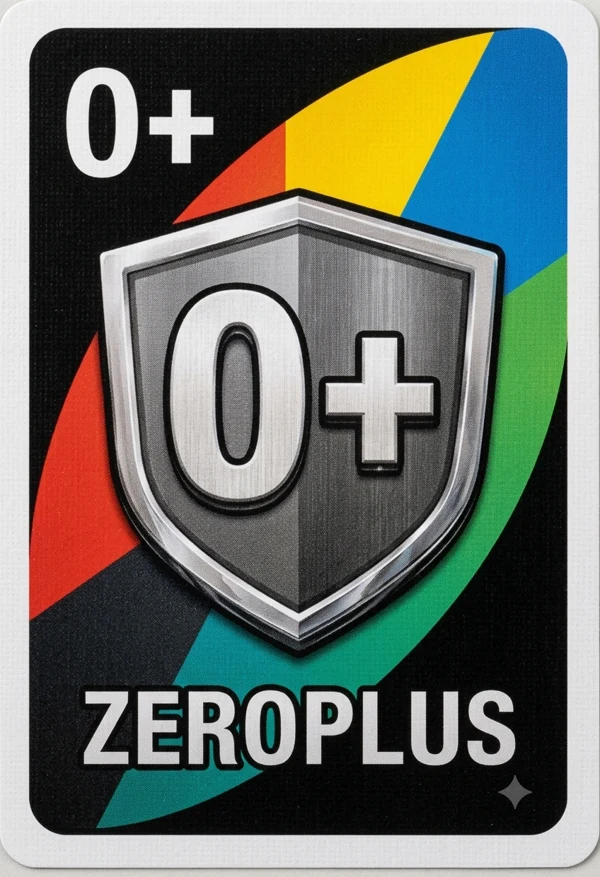
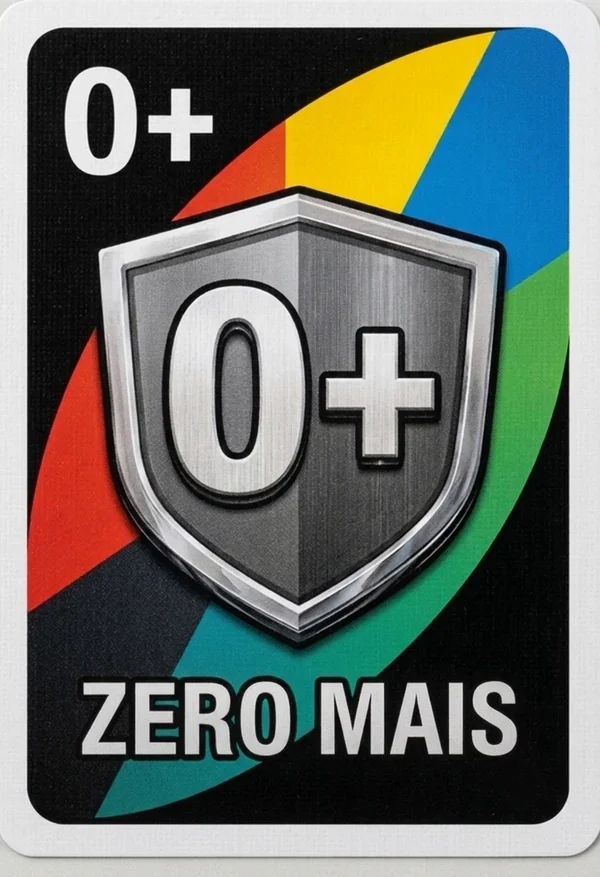
Cartas especiais com arte em português (#45)
* feat(web): cartas especiais com arte em português

Novas artes de Coringa, Gira Mão, Zero Mais e +2 Para Todos (agora .webp,
sem o .svg antigo), textos alternativos e descrição do app em PT-BR.

* docs: CHANGELOG das cartas em português

* docs: formata a tabela do GDD

---------

diff --git a/apps/web/src/components/cardVisuals.ts b/apps/web/src/components/cardVisuals.ts
@@ -8,7 +8,7 @@ const SPECIAL_ASSETS: Partial<Record<string, string>> = {
   TROCA_MAO: '/assets/cards/kabemjunto/troca-mao.webp',
   GIRA_MAO: '/assets/cards/kabemjunto/gira-mao.webp',
   CORINGA_SIMPLES: '/assets/cards/kabemjunto/coringa.webp',
-  MAIS_DOIS_TODOS: '/assets/cards/kabemjunto/mais-dois-todos.svg',
+  MAIS_DOIS_TODOS: '/assets/cards/kabemjunto/mais-dois-todos.webp',
 };
 
 export type CardVisualTemplate = 'numeric' | 'acao-colorida' | 'neutra-especial';
@@ -19,7 +19,7 @@ export type CardVisual =
 export function getCardVisual(carta: Carta): CardVisual {
   const acao = carta.acao;
 
-  // Cartas com arte premium (5 neutras especiais)
+  // Cartas com arte premium (6 neutras especiais)
   if (acao !== undefined && acao in SPECIAL_ASSETS) {
     return { kind: 'asset', src: SPECIAL_ASSETS[acao] as string };
   }
@@ -42,10 +42,11 @@ export function getCardAltText(carta: Carta): string {
   if (carta.valor !== undefined) return `Carta ${carta.valor}`;
   const labels: Record<string, string> = {
     MAIS_QUATRO: '+4',
-    ZERO_MAIS: '0+ Reflexo',
+    ZERO_MAIS: '0+ Zero Mais',
     TROCA_MAO: 'Troca Mão',
     GIRA_MAO: 'Gira Mão',
     CORINGA_SIMPLES: 'Coringa',
+    MAIS_DOIS_TODOS: '+2 Para Todos',
   };
   return labels[carta.acao ?? ''] ?? carta.efeito_texto_curto;
 }

diff --git a/apps/web/src/components/cardVisuals.test.ts b/apps/web/src/components/cardVisuals.test.ts
@@ -50,11 +50,11 @@ describe('cardVisuals — catálogo visual', () => {
       if (v.kind === 'asset') expect(v.src).toContain('coringa.webp');
     });
 
-    it('MAIS_DOIS_TODOS mapeia para mais-dois-todos.svg (ADR-013)', () => {
+    it('MAIS_DOIS_TODOS mapeia para mais-dois-todos.webp (ADR-013)', () => {
       const v = getCardVisual(carta({ tipo: 'NEUTRA', cor: 'NEUTRO', acao: 'MAIS_DOIS_TODOS' }));
       expect(v.kind).toBe('asset');
       if (v.kind === 'asset') {
-        expect(v.src).toContain('mais-dois-todos.svg');
+        expect(v.src).toContain('mais-dois-todos.webp');
         expect(v.src).toContain('/assets/cards/kabemjunto/');
       }
     });

diff --git a/apps/web/src/components/PainelColecao.tsx b/apps/web/src/components/PainelColecao.tsx
@@ -22,7 +22,7 @@ const TEMAS: Array<{ id: TemaColecao; nome: string; cores: string[] }> = [
 
 const DECK_PREVIEW_SPECIALS: readonly { src: string; alt: string }[] = [
   { src: '/assets/cards/kabemjunto/mais-quatro.webp', alt: '+4' },
-  { src: '/assets/cards/kabemjunto/zero-mais.webp', alt: '0+ Reflexo' },
+  { src: '/assets/cards/kabemjunto/zero-mais.webp', alt: '0+ Zero Mais' },
   { src: '/assets/cards/kabemjunto/troca-mao.webp', alt: 'Troca Mão' },
 ];
 

diff --git a/GDD-Kabemjunto.md b/GDD-Kabemjunto.md
@@ -60,24 +60,24 @@ Hoje o jogo roda no navegador. O botão principal, **Jogar agora**, entra numa m
 
 ## 2. Estado atual do produto
 
-| Área                                             | Situação | Observação                                                                                                                               |
-| ------------------------------------------------ | -------- | ---------------------------------------------------------------------------------------------------------------------------------------- |
-| Motor de regras (109 cartas)                     | ✅       | Silêncio, 0+, +2 Para Todos, Corta-Frente, descarte múltiplo, Troca/Gira Mão                                                             |
-| Online: salas públicas/privadas, retomada        | ✅       | Salas por código; persistência de snapshot em instância única; chat e falas rápidas                                                      |
-| Mesa 3D (bots e online)                          | ✅       | Um componente para os dois modos; 2D simples sem WebGL ou com `?mesa=2d`; peso das cartas opcional (`?peso=1`); selos no jogador afetado |
-| Menu, logo e leque de cartas                     | ✅       | "Jogar agora" em destaque, "Só contra bots, neste aparelho" e "Jogar com amigos". As cartas do menu ainda têm nomes em inglês            |
-| Dicas contextuais                                | ✅       | Seis dicas, cada uma aparece uma vez, quando importa                                                                                     |
-| PWA instalável e partida offline                 | ✅       | Manifest, ícones, service worker; menu avisa "Sem internet"                                                                              |
-| "Jogar agora" com bots                           | ✅       | Sala pública rápida (ADR-015)                                                                                                            |
-| Partida resiliente, revanche, prêmios e placar   | ✅       | ADR-016; não medido com jogadores reais                                                                                                  |
-| Métricas de retenção                             | 🔜       | Prontas e desligadas (`docs/METRICAS.md`)                                                                                                |
-| Moderação de chat e apelidos                     | 📋       | Necessária antes de divulgar para desconhecidos                                                                                          |
-| Hot-seat (vários humanos no mesmo aparelho)      | ❌       | Existia na mesa antiga; saiu com a mesa 3D                                                                                               |
-| Escolha de dificuldade dos bots                  | 🔜       | O motor tem Fácil, Médio e Difícil, sem escolha na interface: Fácil no aparelho, Médio no servidor                                       |
-| Meta de 60 fps de média em celular intermediário | 🔜       | Hoje: mediana 60 fps, média 49 a 56 no perfil de teste (CPU 4× mais lenta, 6 jogadores)                                                  |
-| Produção publicada                               | 🔜       | Ambiente de teste na VPS da Hostinger, em `https://kabemjunto.kabemmanager.online` (`9f6f6cf`, 2026-11-25); o Railway não foi revalidado |
-| Playtest fechado, onboarding visual              | 🔜 / 📋  | Roteiro pronto (issue #16), teste por fazer; onboarding na issue #17                                                                     |
-| Testes automatizados                             | ✅       | 727 testes unitários e de integração e 79 cenários E2E (Chromium) em `9f6f6cf`                                                           |
+| Área                                             | Situação | Observação                                                                                                                                                                         |
+| ------------------------------------------------ | -------- | ---------------------------------------------------------------------------------------------------------------------------------------------------------------------------------- |
+| Motor de regras (109 cartas)                     | ✅       | Silêncio, 0+, +2 Para Todos, Corta-Frente, descarte múltiplo, Troca/Gira Mão                                                                                                       |
+| Online: salas públicas/privadas, retomada        | ✅       | Salas por código; persistência de snapshot em instância única; chat e falas rápidas                                                                                                |
+| Mesa 3D (bots e online)                          | ✅       | Um componente para os dois modos; 2D simples sem WebGL ou com `?mesa=2d`; peso das cartas opcional (`?peso=1`); selos no jogador afetado                                           |
+| Menu, logo e leque de cartas                     | ✅       | "Jogar agora" em destaque, "Só contra bots, neste aparelho" e "Jogar com amigos". Artes das cartas especiais em português (Coringa, Gira Mão, Troca Mão, Zero Mais, +2 Para Todos) |
+| Dicas contextuais                                | ✅       | Seis dicas, cada uma aparece uma vez, quando importa                                                                                                                               |
+| PWA instalável e partida offline                 | ✅       | Manifest, ícones, service worker; menu avisa "Sem internet"                                                                                                                        |
+| "Jogar agora" com bots                           | ✅       | Sala pública rápida (ADR-015)                                                                                                                                                      |
+| Partida resiliente, revanche, prêmios e placar   | ✅       | ADR-016; não medido com jogadores reais                                                                                                                                            |
+| Métricas de retenção                             | 🔜       | Prontas e desligadas (`docs/METRICAS.md`)                                                                                                                                          |
+| Moderação de chat e apelidos                     | 📋       | Necessária antes de divulgar para desconhecidos                                                                                                                                    |
+| Hot-seat (vários humanos no mesmo aparelho)      | ❌       | Existia na mesa antiga; saiu com a mesa 3D                                                                                                                                         |
+| Escolha de dificuldade dos bots                  | 🔜       | O motor tem Fácil, Médio e Difícil, sem escolha na interface: Fácil no aparelho, Médio no servidor                                                                                 |
+| Meta de 60 fps de média em celular intermediário | 🔜       | Hoje: mediana 60 fps, média 49 a 56 no perfil de teste (CPU 4× mais lenta, 6 jogadores)                                                                                            |
+| Produção publicada                               | 🔜       | Ambiente de teste na VPS da Hostinger, em `https://kabemjunto.kabemmanager.online` (`9f6f6cf`, 2026-11-25); o Railway não foi revalidado                                           |
+| Playtest fechado, onboarding visual              | 🔜 / 📋  | Roteiro pronto (issue #16), teste por fazer; onboarding na issue #17                                                                                                               |
+| Testes automatizados                             | ✅       | 727 testes unitários e de integração e 79 cenários E2E (Chromium) em `9f6f6cf`                                                                                                     |
 
 A última release marcada é `v0.5.1` e não inclui a mesa 3D nem o PWA.
 

diff --git a/CHANGELOG.md b/CHANGELOG.md
@@ -9,6 +9,7 @@ Formato baseado em [Keep a Changelog](https://keepachangelog.com/pt-BR/1.1.0/).
 
 ### Corrigido
 
+- **Cartas 100% em português:** novas artes de Coringa, Gira Mão, Zero Mais e +2 Para Todos (esta passa de `.svg` para `.webp`, e o `.svg` foi removido), na mesa e no leque do menu. Textos alternativos unificados ("0+ Zero Mais", "+2 Para Todos"), inclusive na descrição do app instalável.
 - O confete da vitória não era desenhado em produção: a CSP bloqueava o worker da biblioteca. Agora desenha sem worker, e `e2e/csp.spec.ts` confere o build com a CSP real.
 
 ### Adicionado
